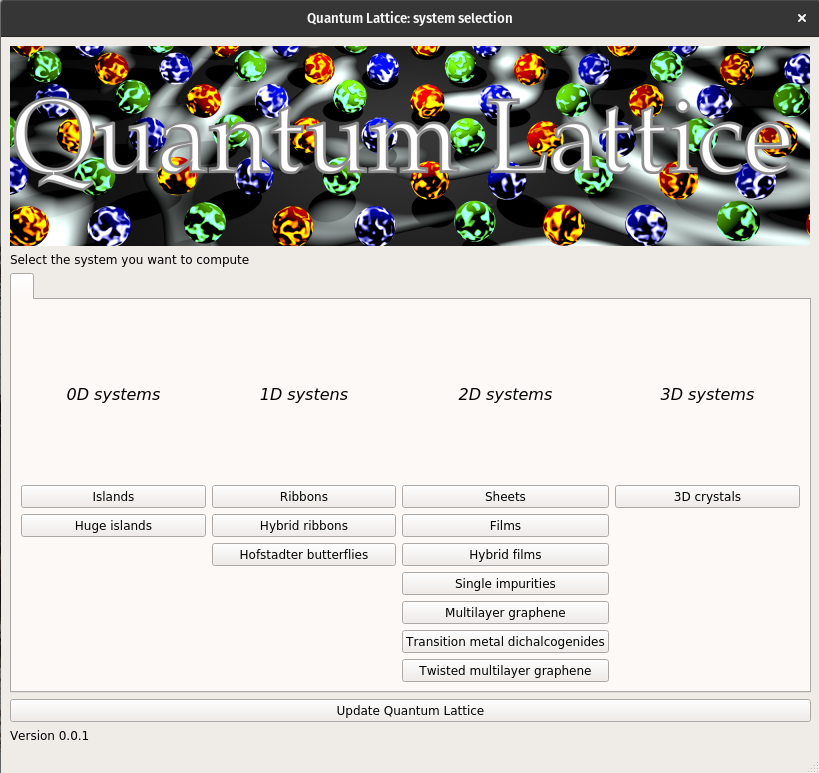
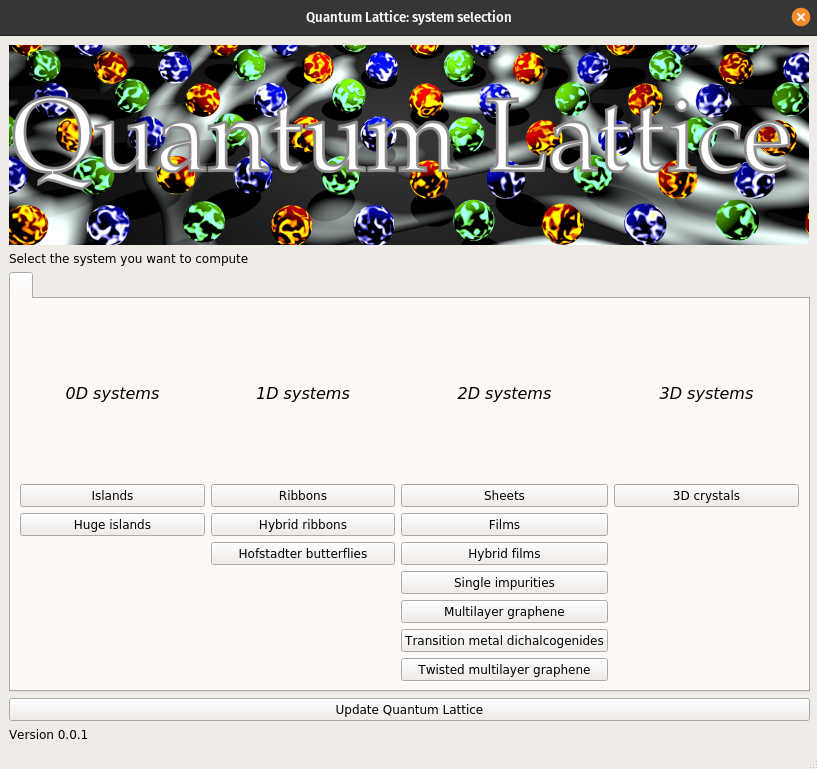
Update

diff --git a/interface-pyqt/system_selection/interface.py b/interface-pyqt/system_selection/interface.py
@@ -148,7 +148,7 @@ class Ui_MainWindow(object):
         self.huge0d_pyqt.setText(_translate("MainWindow", "Huge islands"))
         self.ribbons_pyqt.setText(_translate("MainWindow", "Ribbons"))
         self.label_2.setText(_translate("MainWindow", "0D systems"))
-        self.label_3.setText(_translate("MainWindow", "1D systens"))
+        self.label_3.setText(_translate("MainWindow", "1D systems"))
         self.label_4.setText(_translate("MainWindow", "2D systems"))
         self.label_5.setText(_translate("MainWindow", "3D systems"))
         self.twisted_bilayer.setText(_translate("MainWindow", "Twisted multilayer graphene"))
